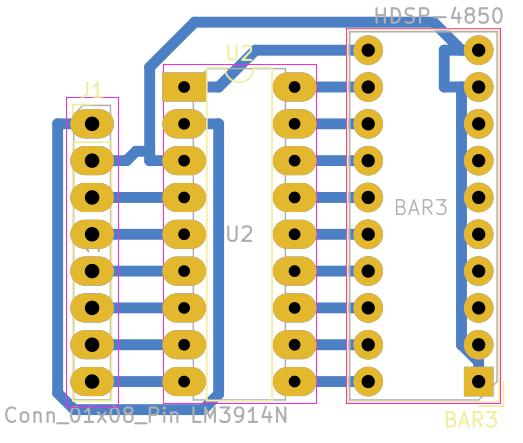
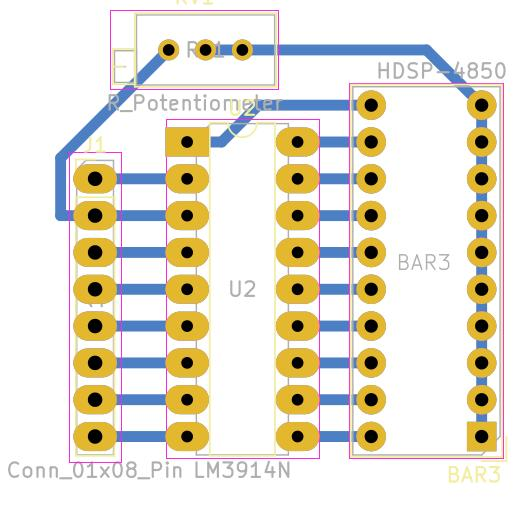
u

diff --git a/techtips/Electronics/LM3914/circuit_02.html b/techtips/Electronics/LM3914/circuit_02.html
@@ -36,9 +36,38 @@
         <p>
           In this circuit, we will add a potentiometer to the circuit_01.<br>
           It will allow us to vary the input voltage at SIG between 0 V and 1.2 V<br>
-
         </p>
         <img src="images/circuit_02.png" alt="circuit_02" width="600">
+
+        <p>
+          We have to make sure that the voltage at the SIG input does not exceed 1.2 V.<br>
+
+          The voltage at the point between R1 ad R_POT is at maximum when the potentiometer is at the maximum value.<br>
+
+          In that case:
+        <div class="code">
+          U_SIG= R_POT /(R1+R_POT) * 5V
+        </div>
+        which leads to the equation for the minimal R1:
+        <div class="code">
+          R1 = R_POT * (5V - U_SIG)/U_SIG
+        </div>
+        With the desired
+        <div class="code">
+          U_SIG= 1.2V
+        </div>
+        and easily available trimpot of value
+        <div class="code">
+          R_POT= 1K&#8486;
+        </div>
+        gives a minimum value for R1
+        <div class="code">
+          R1> 3.16K&#8486;
+        </div>
+        
+
+
+        </p>
 
       </div>
 
